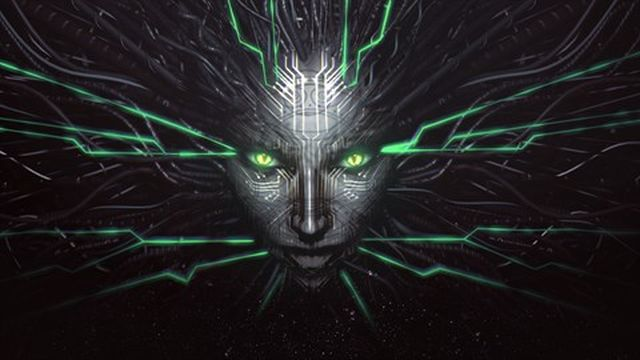
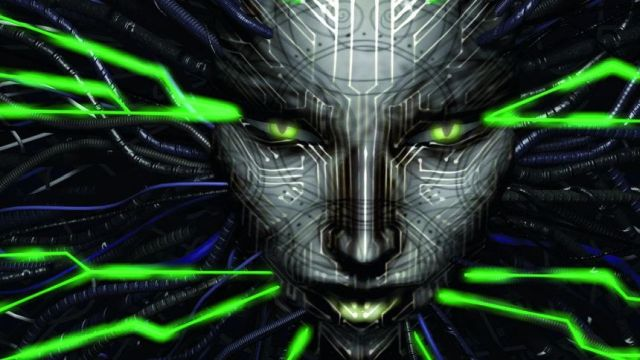
systemshock2 0.4.5 release + inzoi WIP

diff --git a/game-systemshock225thanniversaryremaster/index.js b/game-systemshock225thanniversaryremaster/index.js
@@ -2,8 +2,8 @@
 Name: System Shock 2 (Classic AND 25th Anniversary Remaster) Vortex Extension
 Structure: Basic game w/ mods folder
 Author: ChemBoy1
-Version: 0.4.4
-Date: 2025-07-05
+Version: 0.4.5
+Date: 2025-07-09
 ////////////////////////////////////////////////*/
 
 //Import libraries
@@ -96,7 +96,7 @@ const spec = {
     "id": GAME_ID,
     "name": GAME_NAME,
     "shortName": GAME_NAME_SHORT,
-    "logo": `${GAME_ID_CLASSIC}.jpg`,
+    "logo": `${GAME_ID}.jpg`,
     "modPath": MOD_PATH,
     "modPathIsRelative": true,
     "mergeMods": true,

diff --git a/game-inzoi/index.js b/game-inzoi/index.js
@@ -1747,7 +1747,7 @@ function applyGame(context, gameSpec) {
         shell: true,
         parameters: []
       }, //*/
-      /*{
+      {
         id: MODKIT_ID,
         name: MODKIT_NAME,
         logo: `modkit.png`,

diff --git a/game-systemshock225thanniversaryremaster/CHANGELOG.md b/game-systemshock225thanniversaryremaster/CHANGELOG.md
@@ -4,6 +4,10 @@
 
 - None planned
 
+## [0.4.5] - 2025-07-09
+
+- Fixed an issue with the game image displaying in the Vortex Games list prior to downloading the extension and added a unique image for the Classic version.
+
 ## [0.4.4] - 2025-07-05
 
 - Added extensions for Classic and Legacy mod installers to properly install mod archives with .dml, .gam, and .mis files and no folders.
